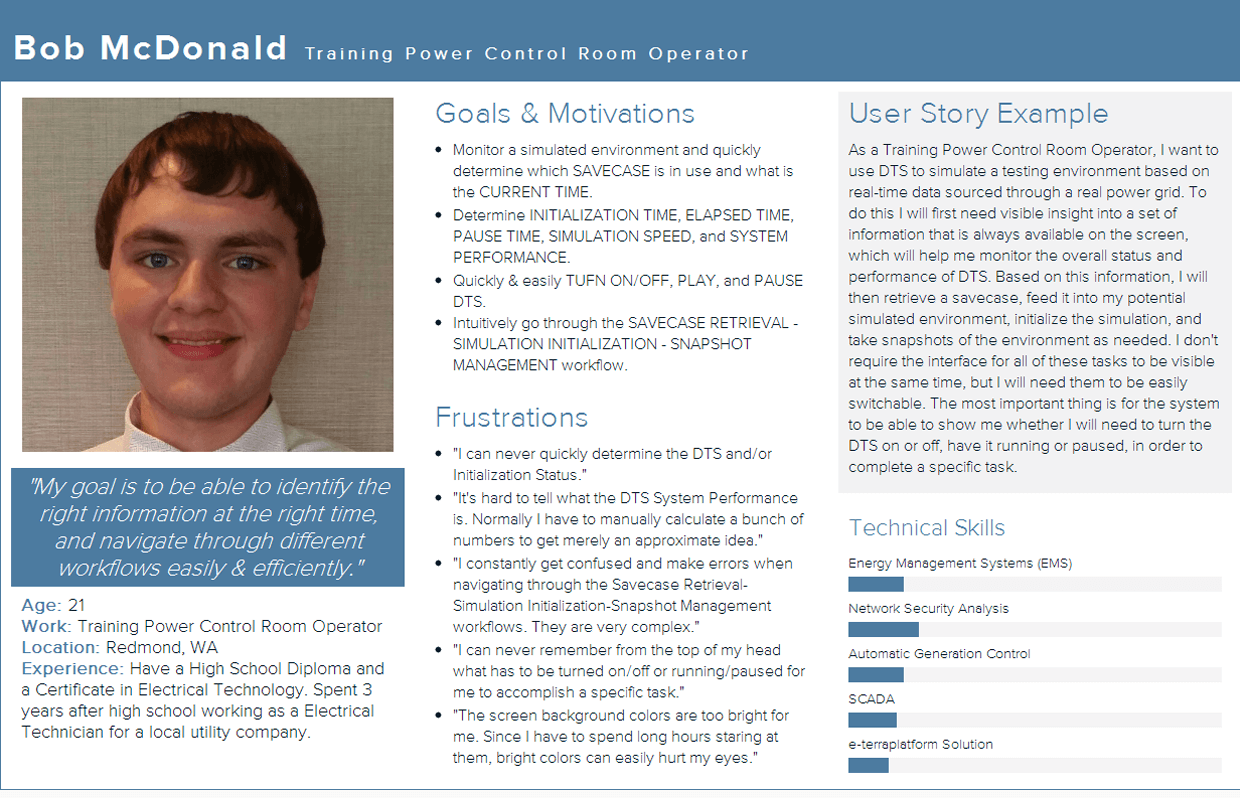
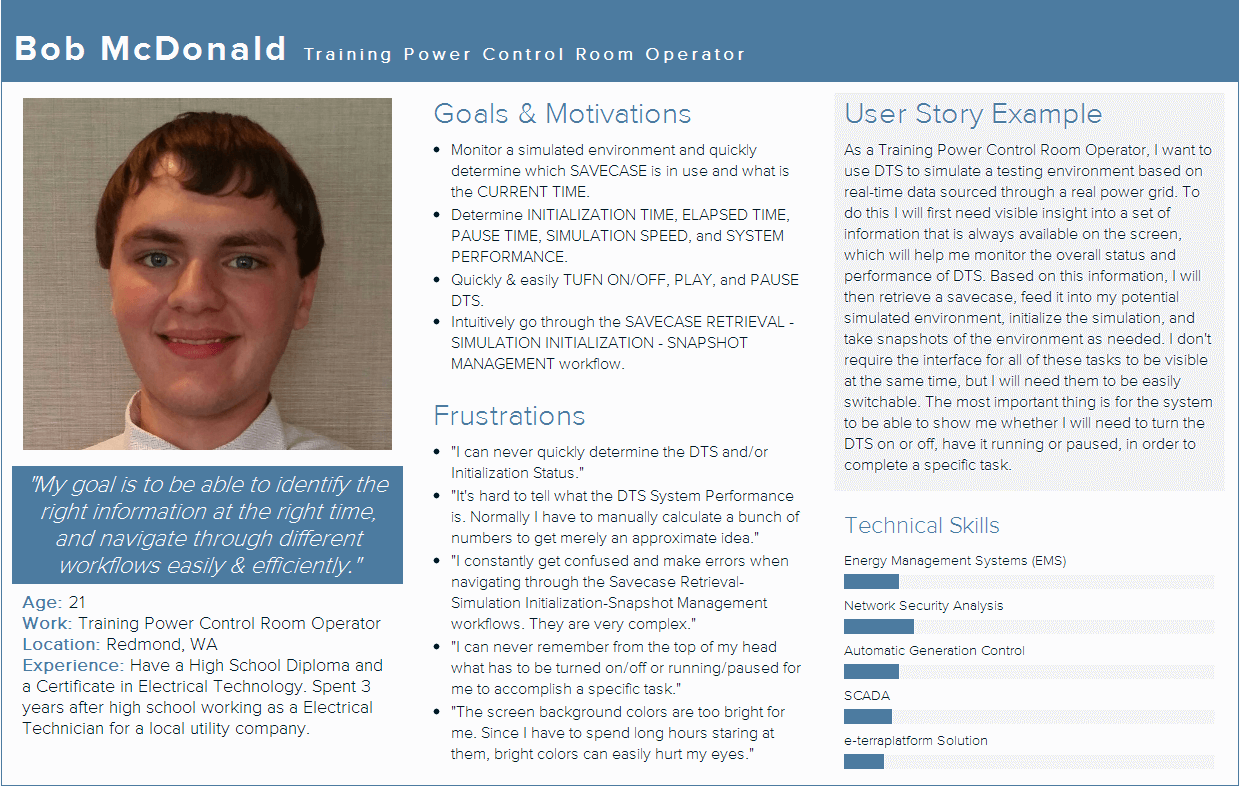
updated personas

diff --git a/huskyproject.html b/huskyproject.html
@@ -165,8 +165,8 @@
 
                   <h3>Personas</h3>
                   <p>With a clearer view of our users and their characteristics, we were definitely a big step ahead. Not only were we able to better evaluate the original design question (and accordingly revise a path to tackle it), we could now utilize the data we had to create two persona:</p>
-                  <img src="images/HUSKYimages/HUSKYpersona1.jpg" alt="">   
-                  <img src="images/HUSKYimages/HUSKYpersona2.jpg" alt="">   
+                  <img src="images/HUSKYimages/HUSKYpersona1.png" alt="">   
+                  <img src="images/HUSKYimages/HUSKYpersona2.png" alt="">   
                   &nbsp;
                   <p>Personally, I think personas are just simply awesome (check out my <a href="PERSONA.html">blog post</a> on why I think personas are great). As much as we like to rely heavily on different forms of data and say that we're definitely building better experiences for our users, designing without a persona is like buying a birthday present for someone you've never met or had the chance to know. Personas help to truly "humanize" the collected research data, and serve as an effective reminder of the "user-centered-ness" of design.</p>
 
